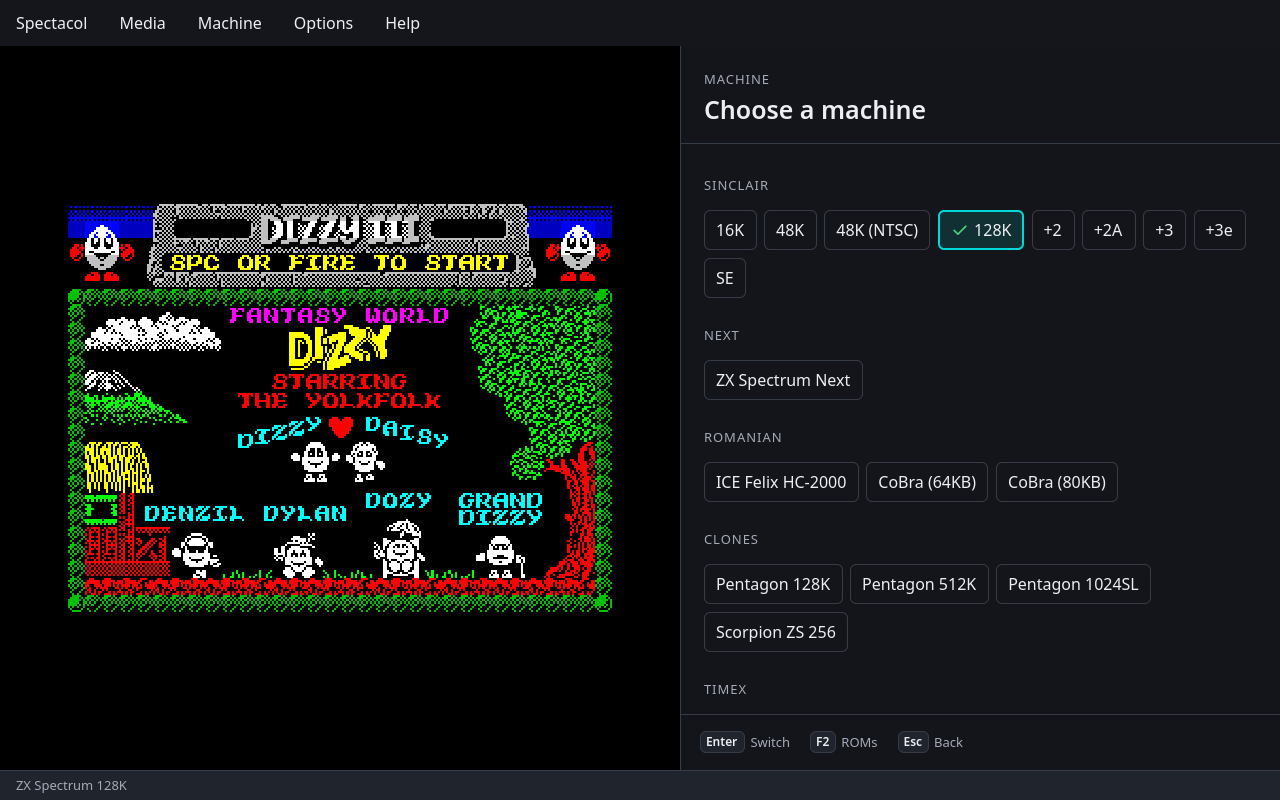
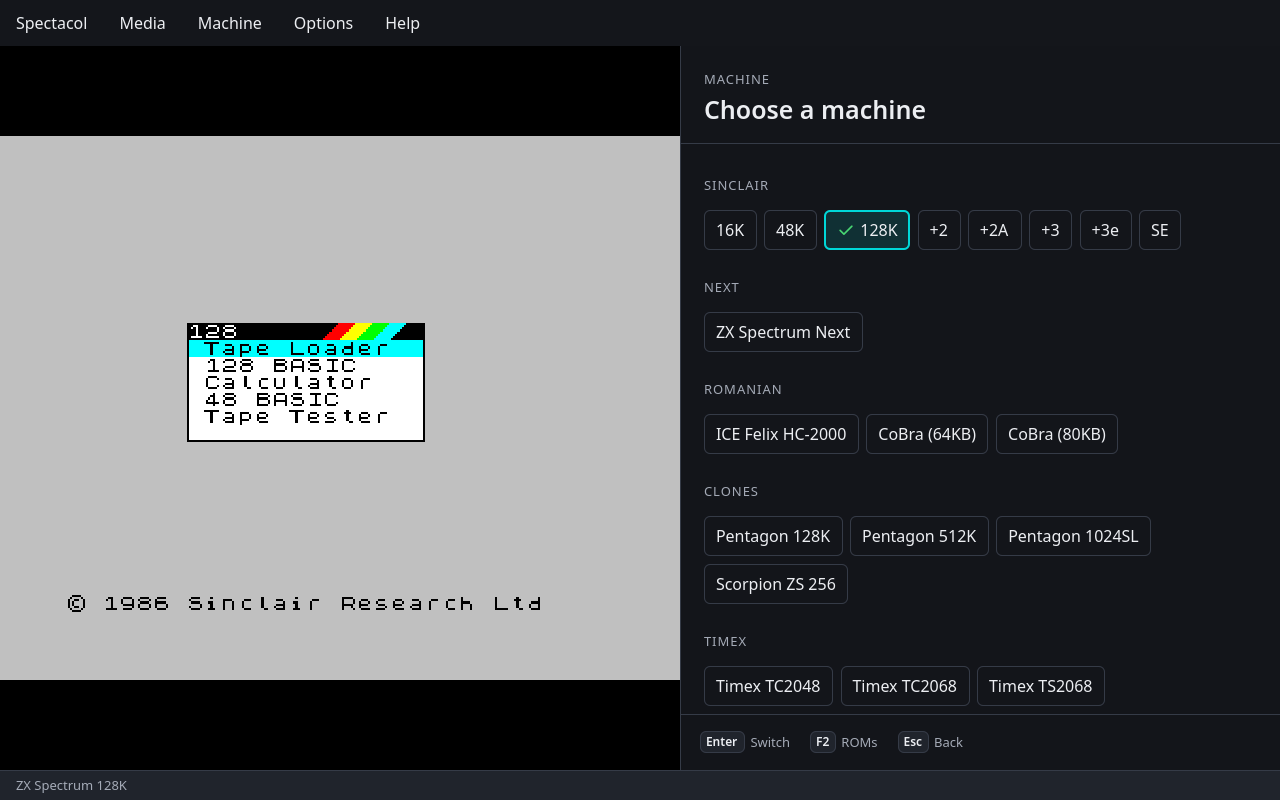
Remove 48K NTSC support from Spectacol

diff --git a/src/zxsettings.cpp b/src/zxsettings.cpp
@@ -16,6 +16,7 @@
 */
 
 #include "zxsettings.h"
+#include "machineregistry.h"
 #include "zxemulator.h"
 #include "nextsdcard.h"
 #include "zximage.h"
@@ -23,7 +24,6 @@
 #include <zxkit/core/Exception.h>
 #include <zxkit/input/Joystick.h>
 #include <zxkit/input/Mouse.h>
-#include <zxkit/machines/MachineProfile.h>
 #include <zxkit/peripherals/expansion/ExpansionPeripherals.h>
 #include <zxkit/peripherals/storage/Interface1.h>
 
@@ -31,6 +31,7 @@
 
 #include <algorithm>
 #include <cmath>
+#include <string>
 #include <string_view>
 
 using namespace Qt::StringLiterals;
@@ -71,8 +72,7 @@ ZxSettings::ZxSettings(ZxEmulator &emulator) : QObject(&emulator), m_zxEmulator(
 {
     // Before anything looks for the Next's SD card image
     NextSdCard::instance().setDataFolder(m_zxEmulator.dataPath());
-    // The built-in machines, the ones the emulator's registry has
-    const zxkit::MachineRegistry machines;
+    const auto machines = spectacolMachineRegistry();
     m_machineIds = machines.availableIds();
     for (std::size_t i = 0; i < m_machineIds.size(); ++i) {
         auto prof = machines.create(m_machineIds[i]);
@@ -99,6 +99,9 @@ ZxSettings::ZxSettings(ZxEmulator &emulator) : QObject(&emulator), m_zxEmulator(
         if (m_savedMachineId == "cobra1_64k"sv || m_savedMachineId == "cobra1_80k"sv) {
             m_savedMachineId.erase(5, 1);
             s.setValue("machine", QString::fromStdString(m_savedMachineId));
+        } else if (m_savedMachineId == "48k_ntsc"sv) {
+            m_savedMachineId = "48k"s;
+            s.setValue(u"machine"_s, u"48k"_s);
         }
         s.endGroup();
 

diff --git a/tests/startup.py b/tests/startup.py
@@ -22,6 +22,7 @@ def main():
     cases = [
         ('fresh', '', [], 2, False),
         ('saved-48k', '[%General]\nmachine=48k\n', [], 1, False),
+        ('saved-48k-ntsc', '[%General]\nmachine=48k_ntsc\n', [], 1, False),
         ('saved-128k', '[%General]\nmachine=128k\n', [], 2, False),
         ('override-48k', '[%General]\nmachine=128k\n', ['--machine', '48k'], 1, False),
         ('invalid-saved', '[%General]\nmachine=missing\n', [], 2, False),
@@ -54,6 +55,8 @@ def main():
             assert not any(error in result.stderr for error in ('ReferenceError', 'TypeError', 'Binding loop'))
             data = snapshot.read_bytes()
             assert data[:4] == b'ZXST' and data[6] == machine, (name, data[:8])
+            if name == 'saved-48k-ntsc':
+                assert 'machine=48k\n' in (config / 'Spectacol.conf').read_text()
             text = subprocess.check_output(['tesseract', str(screenshot), 'stdout'], stderr=subprocess.DEVNULL,
                                            text=True, timeout=15).lower()
             if importing:

diff --git a/src/machineregistry.h b/src/machineregistry.h
@@ -1,0 +1,30 @@
+/*
+    Copyright (c) 2015-2026, BogDan Vatra <bogdan@kde.org>
+
+    This program is free software: you can redistribute it and/or modify
+    it under the terms of the GNU General Public License as published by
+    the Free Software Foundation, either version 3 of the License, or
+    (at your option) any later version.
+
+    This program is distributed in the hope that it will be useful,
+    but WITHOUT ANY WARRANTY; without even the implied warranty of
+    MERCHANTABILITY or FITNESS FOR A PARTICULAR PURPOSE.  See the
+    GNU General Public License for more details.
+
+    You should have received a copy of the GNU General Public License
+    along with this program.  If not, see <http://www.gnu.org/licenses/>.
+*/
+
+#pragma once
+
+#include <zxkit/machines/MachineProfile.h>
+
+#include <string_view>
+
+inline zxkit::MachineRegistry spectacolMachineRegistry()
+{
+    using namespace std::literals;
+    zxkit::MachineRegistry registry;
+    registry.unregisterMachine("48k_ntsc"sv);
+    return registry;
+}

diff --git a/tests/test_files_features.cpp b/tests/test_files_features.cpp
@@ -4,6 +4,7 @@
 #include "debugsymbols.h"
 #include "devicestorage.h"
 #include "folderlistmodel.h"
+#include "machineregistry.h"
 #include "pokemodel.h"
 #include "romoverrides.h"
 #include <QAbstractItemModelTester>
@@ -34,7 +35,7 @@ class FilesFeaturesTest : public QObject {
     }
     int machine(const QString &id)
     {
-        const auto ids = zxkit::MachineRegistry().availableIds();
+        const auto ids = spectacolMachineRegistry().availableIds();
         const auto it = std::ranges::find(ids, id.toStdString());
         return int(it - ids.begin());
     }
@@ -122,6 +123,7 @@ private slots:
     void romPersistenceAndMachineScope()
     {
         RomOverrides model;
+        QVERIFY(!model.machines().contains(u"ZX Spectrum 48K (NTSC)"_s));
         model.setMachineIndex(machine(u"48k"_s));
         QCOMPARE(model.romSlots().size(), 1);
         const auto bundled = model.resolve("48k", "48.rom", 16384);

diff --git a/tests/files_features.py b/tests/files_features.py
@@ -162,7 +162,7 @@ def main():
             assert pc(snapshot) == 0, hex(pc(snapshot))
         elif name == 'machine-stick':
             _, text, *_ = run(name, MACHINES[:-2] + ['nav:AxisLeftX:1', 'nav:AxisLeftX:0', pad('X')])
-            assert 'custom roms' in text and 'ntsc' in text, text
+            assert 'custom roms' in text and '128k' in text and 'ntsc' not in text, text
         elif name == 'browser-open-touch':
             snapshot, *_ = run(name, BROWSER + ['F2', 'click:filesSearch', 'input:another', 'Return', 'point:0:down:200:217', 'point:0:up:200:217'])
             assert read_snapshot(snapshot)[0][0x5001] == 0x99

diff --git a/src/zxemulator.cpp b/src/zxemulator.cpp
@@ -16,6 +16,7 @@
 */
 
 #include "zxemulator.h"
+#include "machineregistry.h"
 #include <QPointer>
 #include <QWindow>
 #include <QQuickWindow>
@@ -496,6 +497,7 @@ ZxEmulator::ZxEmulator(QObject *parent)
     zxkit::EmulatorConfig cfg;
     cfg.machineId = "128k"s;
     cfg.audioSampleRate = 48'000;
+    cfg.machines = spectacolMachineRegistry();
     cfg.fullBorder = true;
     m_roms = std::make_unique<RomOverrides>();
     cfg.machineRomResolver = [this](std::string_view machine, std::string_view name,

diff --git a/src/romoverrides.cpp b/src/romoverrides.cpp
@@ -16,6 +16,7 @@
 */
 
 #include "romoverrides.h"
+#include "machineregistry.h"
 
 #include <zxkit/core/Emulator.h>
 #include <QDir>
@@ -33,7 +34,7 @@ using namespace std::literals;
 
 RomOverrides::RomOverrides(QObject *parent) : QObject(parent)
 {
-    const zxkit::MachineRegistry registry;
+    const auto registry = spectacolMachineRegistry();
     for (const auto &id : registry.availableIds()) {
         const auto machine = registry.create(id);
         const auto qid = QString::fromStdString(id);
